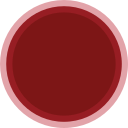
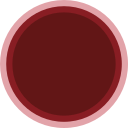
a

diff --git a/index.html b/index.html
@@ -35,7 +35,7 @@
             void main(void) {
                 vExtrudeCoords = aExtrudeCoords;
                 gl_Position = uTransformMatrix * vec4(aCRSCoords, 1.0, 1.0);
-                gl_Position += vec4(aExtrudeCoords * uPixelSize * 10.0, 0.0, 0.0); // Adjust size by changing the scaling factor
+                gl_Position += vec4(aExtrudeCoords * uPixelSize * 2.0, 0.0, 0.0); // Adjust size by changing the scaling factor
             }
         `;
 
@@ -67,7 +67,7 @@
 					],
                 vertexShader: vertexShaderCode,
                 fragmentShader: fragmentShaderCode,
-                textures: ['InfectionMarker3.png'],
+                textures: ['InfectionMarker.png'],
             });
 
             glMarkers.addTo(map);
